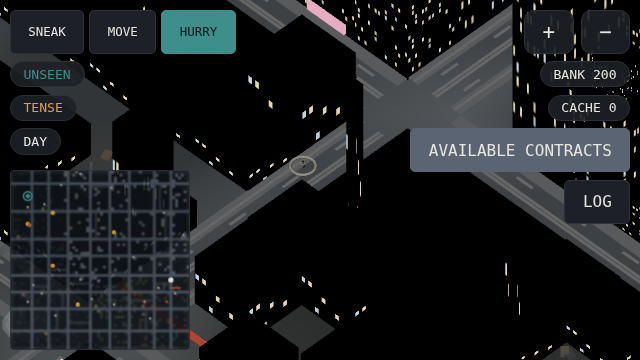
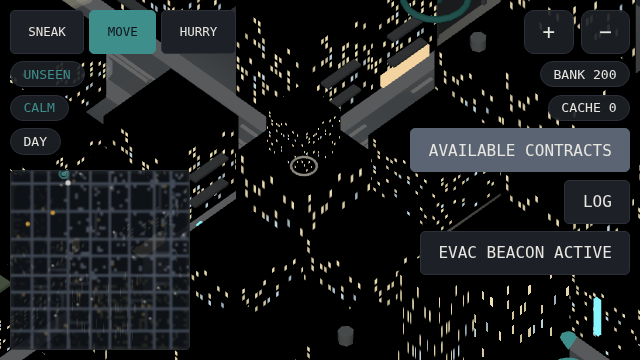
slice-DC-2: neon districts and pipe-clad works, plus the freeze probe seam
District character round two, in the reference's vocabulary: facade neon
signs as new instanced decor (per-district palettes and densities in
districtStyles tokens - commercial pink-dominant, research cool cyan,
port/residential sparse warm) and industrial external pipe runs. Emission
verified by direct blockMassing census (188 neon, 53 pipes on seed 4711)
before trusting screenshots.

main.js gains a __smFreeze probe seam - SwiftShader can no longer
screenshot a live diorama since the decor pass grew - and a new kept probe
dbg_district_look.mjs drops into the commercial district via the zone
picker and shoots the held frame. S15/S17 notes updated (avenue density
deferred per owner 7B).

493/493 double-run, smoke/ui/mobile green.

diff --git a/client/js/terrain3d.js b/client/js/terrain3d.js
@@ -415,6 +415,25 @@ export function blockMassing(tiles, size, seed, districts = null) {
         if (face && styleCfg?.shopfront && hash2(seed ^ 0x5a0f, x, y) < 0.5) {
           decor.push({ kind: "shopfront", x, y, dirX: face[0], dirZ: face[1], style });
         }
+        // DC-2 (ref cyperpunk-example.png): NEON on the street faces — the
+        // commercial identity lever. The roll picks colour and shape too, so
+        // one hash decides the whole sign and reruns are stable.
+        if (face && styleCfg?.neon && h >= 0.9) {
+          const roll = hash2(seed ^ 0x2e02, x, y);
+          if (roll < (styleCfg.neonDensity ?? 0)) {
+            decor.push({
+              kind: "neon", x, y, dirX: face[0], dirZ: face[1], top: h, style,
+              variant: hash2(seed ^ 0x7e01, x, y),
+            });
+          }
+        }
+        // …and industrial facades grow external PIPE runs, the works worn
+        // on the outside of the building.
+        if (face && styleCfg?.pipes && h >= 0.7
+          && hash2(seed ^ 0x9199, x, y) < (styleCfg.pipeDensity ?? 0)) {
+          decor.push({ kind: "pipes", x, y, dirX: face[0], dirZ: face[1], top: h,
+            style, variant: hash2(seed ^ 0x9139, x, y) });
+        }
       }
       // The vertical accents: towers out of a podium, stacks out of a works.
       if (template === "podium" || template === "industrial") {
@@ -592,6 +611,68 @@ export function buildBlocks(tiles, size, seed, districts = null) {
       }
       slab.instanceMatrix.needsUpdate = true;
       group.add(slab);
+    }
+  }
+  // DC-2: neon signs. Vertical strips and small marquees, emissive-flat and
+  // bucketed by colour like the shopfronts; the variant hash picks colour,
+  // shape and mounting height so the street never repeats a rhythm.
+  const neons = kinds.get("neon") ?? [];
+  if (neons.length) {
+    const byHex = new Map();
+    for (const d of neons) {
+      const palette = DISTRICT_STYLES?.[d.style]?.neon;
+      if (!palette?.length) continue;
+      const hex = palette[Math.trunc(d.variant * 997) % palette.length];
+      if (!byHex.has(hex)) byHex.set(hex, []);
+      byHex.get(hex).push(d);
+    }
+    for (const [hex, list] of byHex) {
+      const mesh = new THREE.InstancedMesh(
+        new THREE.BoxGeometry(1, 1, 1),
+        new THREE.MeshBasicMaterial({ color: new THREE.Color().setRGB(...hexRgb(hex)) }),
+        list.length);
+      for (let i = 0; i < list.length; i++) {
+        const d = list[i];
+        const vertical = d.variant < 0.6;   // the reference skews vertical
+        const len = vertical
+          ? Math.min(d.top * 0.55, 0.45 + d.variant * 0.5)
+          : 0.09;
+        const wide = vertical ? 0.07 : 0.38 + d.variant * 0.2;
+        const mountY = vertical
+          ? Math.min(d.top - len / 2 - 0.06, 0.55 + d.variant * 0.9)
+          : Math.min(d.top - 0.12, 0.5 + d.variant * 1.1);
+        put(mesh, i,
+          d.x + 0.5 + d.dirX * 0.56, mountY, d.y + 0.5 + d.dirZ * 0.56,
+          d.dirX ? 0.045 : wide, len, d.dirZ ? 0.045 : wide);
+      }
+      mesh.instanceMatrix.needsUpdate = true;
+      group.add(mesh);
+    }
+  }
+  // DC-2: industrial pipe runs — a vertical line up the facade with a stub
+  // elbow near the top. Utility, not decoration: the works worn outside.
+  const pipes = kinds.get("pipes") ?? [];
+  if (pipes.length) {
+    const hex = DISTRICT_STYLES?.industrial?.pipes;
+    if (hex) {
+      const run = new THREE.InstancedMesh(
+        new THREE.BoxGeometry(1, 1, 1), lambert(hex), pipes.length);
+      const stub = new THREE.InstancedMesh(
+        new THREE.BoxGeometry(1, 1, 1), lambert(hex), pipes.length);
+      for (let i = 0; i < pipes.length; i++) {
+        const d = pipes[i];
+        const off = 0.18 + d.variant * 0.5;   // where along the face it climbs
+        const px = d.x + 0.5 + d.dirX * 0.55 + (d.dirX ? 0 : off - 0.5);
+        const pz = d.y + 0.5 + d.dirZ * 0.55 + (d.dirZ ? 0 : off - 0.5);
+        put(run, i, px, d.top * 0.5, pz, 0.05, d.top * 0.96, 0.05);
+        put(stub, i,
+          px + (d.dirZ ? 0.09 : 0), d.top * (0.62 + d.variant * 0.25),
+          pz + (d.dirX ? 0.09 : 0),
+          d.dirX ? 0.05 : 0.2, 0.05, d.dirZ ? 0.05 : 0.2);
+      }
+      run.instanceMatrix.needsUpdate = true;
+      stub.instanceMatrix.needsUpdate = true;
+      group.add(run, stub);
     }
   }
   const shopfronts = kinds.get("shopfront") ?? [];

diff --git a/client/js/main.js b/client/js/main.js
@@ -170,6 +170,11 @@ session.onChange((s, events) => {
   window.__smView = s.view;
   window.__smSend = (cmd) => session.send(cmd);
   window.__smTiles = session.tiles ?? null;
+  // Probe seam: freeze the diorama so a SwiftShader screenshot has a quiet
+  // main thread — DC-2's instanced neon pushed live-frame capture over the
+  // timeout even at 640x360. Draw once more after freezing so the LAST frame
+  // is current, then hold it.
+  window.__smFreeze = (on) => { window.__smFrozen = !!on; };
 });
 
 // S05: the dropship sequence, owned by the client and driven by a wall clock.
@@ -199,7 +204,7 @@ function paint(s, events) {
     // tools/ui_acceptance.mjs, where every page interaction was taking seconds
     // under software rendering; it costs real devices battery rather than
     // seconds, which is why it went unnoticed.
-    if (!$("#world").hidden) {
+    if (!$("#world").hidden && !window.__smFrozen) {
       renderer.draw(view, pinned);
       // The dropship rides on top of the drawn frame. A null flight hides it,
       // so an interrupted or finished sequence needs no extra bookkeeping.

diff --git a/specs/systems/S15_art_assets.md b/specs/systems/S15_art_assets.md
@@ -305,3 +305,21 @@ station et al) — the owner ruled anchors first; landmarks are a later slice.
   clamp (14–70 cells across) bounds it.
 - The destination pin (S02): a bobbing token-coloured cone plus ground ring
   over the move order's actual endpoint, depth-free like the other HUD marks.
+
+
+## SP-1 + DC-2 — the cyberpunk grade (2026-08-27, ref debugging/cyperpunk-example.png)
+
+**Splash (SP-1)**: street-level perspective camera over the existing
+choreography; canvas-painted parallax skylines (pixel windows, two
+temperatures); magenta haze gradient + derived-range fog; rim/fill lights;
+edge-mounted flickering neon. All colours in `style_tokens.splash`; the
+colour guard scans attract.js.
+
+**District character round two (DC-2)**: facade NEON as the commercial
+identity lever — per-district palettes and densities in
+`terrain.districtStyles.*.neon` (commercial pink-dominant 0.45, research
+cool cyan 0.2, port/residential sparse warm) — and industrial external PIPE
+runs (`pipes`/`pipeDensity`). Both are decor kinds in terrain3d's existing
+instanced pass, deterministic per seed. Round one's balconies, shopfronts,
+gardens, masts and tanks were already in (playtest 5); this pass closes the
+"more district character" directive with the reference's vocabulary.

diff --git a/specs/systems/S17_mission_areas.md b/specs/systems/S17_mission_areas.md
@@ -112,3 +112,7 @@ never watchers. Needs its own slice and a Q ruling on density/perf.
   Client-side theatre is ACCEPTABLE here (unlike civilians they never react
   to the sim) — deterministic from seed, drawn by the road layer.
 - Both wait behind the mission-area slices unless the owner reorders.
+- **Avenue density (noted 2026-08-27, owner: "note it for later")**: seed
+  4711 has exactly ONE transit avenue, so its hover-car traffic is a single
+  convoy. Guaranteeing >=1 avenue per axis is a citygen layout change (fixture
+  re-pin, whole-city look change) — deferred until a playtest complains.
